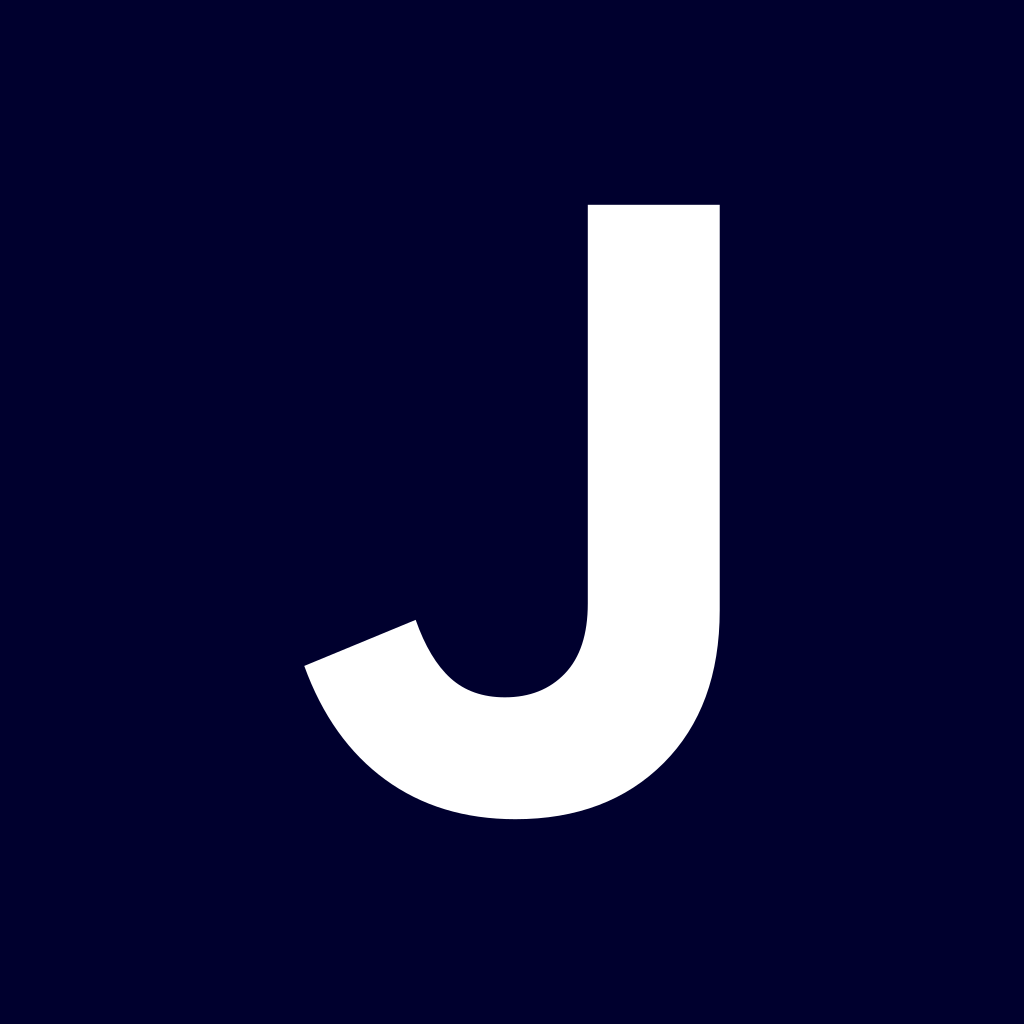
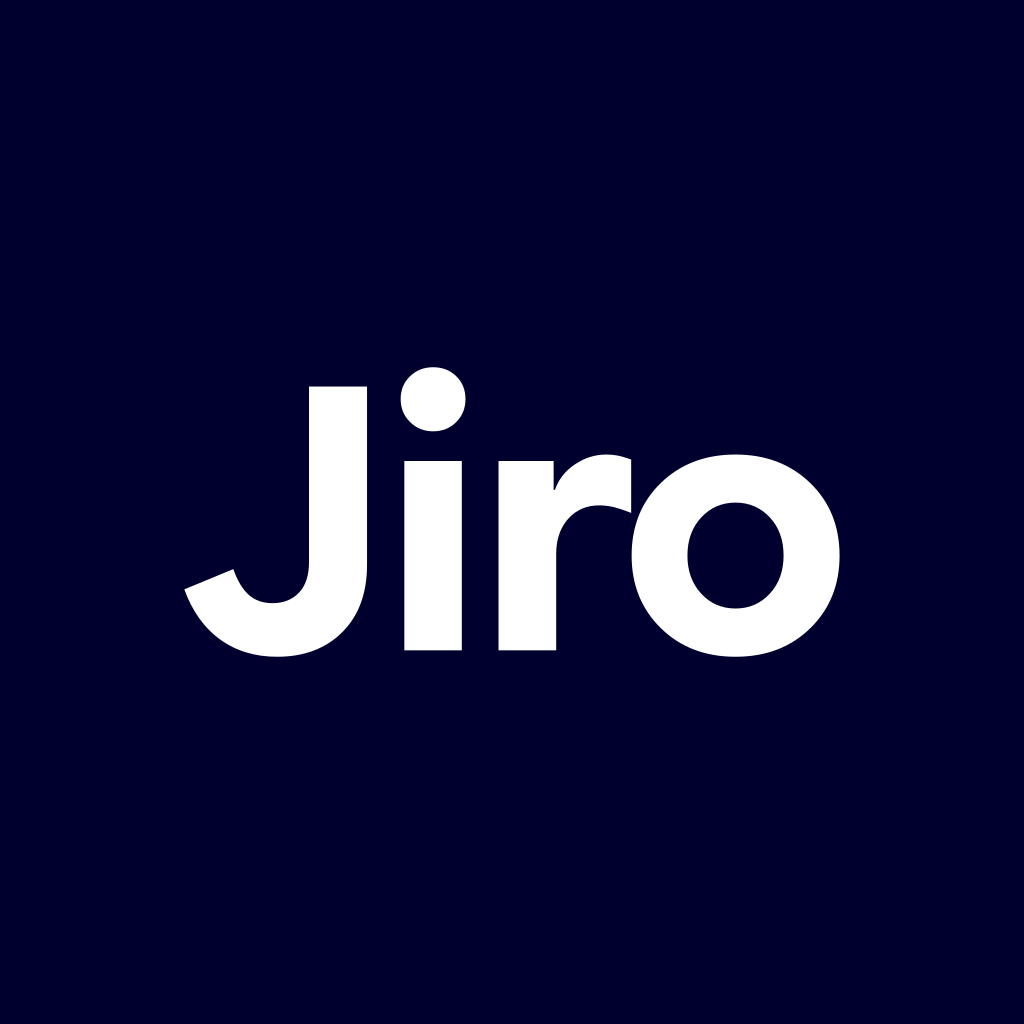
Use the wordmark for the profile picture

Changed region(s): [[0.1875, 0.1875, 0.8438, 0.8125]]

diff --git a/README.md b/README.md
@@ -21,9 +21,9 @@ it without a token.
     for browser tabs.
   - `apple-touch-icon.png`, `icon-192.png`, `icon-512.png`: full-bleed mark for home screens; iOS
     and Android round the corners themselves.
-  - `profile-picture.png`: the full-bleed mark at 1024×1024 for account avatars (the Google
-    Workspace photo on `info@` and staff accounts, which Gmail shows next to our emails). Avatars
-    are cropped to a circle; the "J" stays inside it.
+  - `profile-picture.png`: the white wordmark on navy at 1024×1024 for account avatars (the
+    Google Workspace photo on `info@` and staff accounts, which Gmail shows next to our emails).
+    Avatars are cropped to a circle; the wordmark stays inside it.
   - `og-image.png`: the 1200×630 link preview.
 
 App-specific tokens stay in each app: portal's credit-score risk scale and sidebar, the website's
